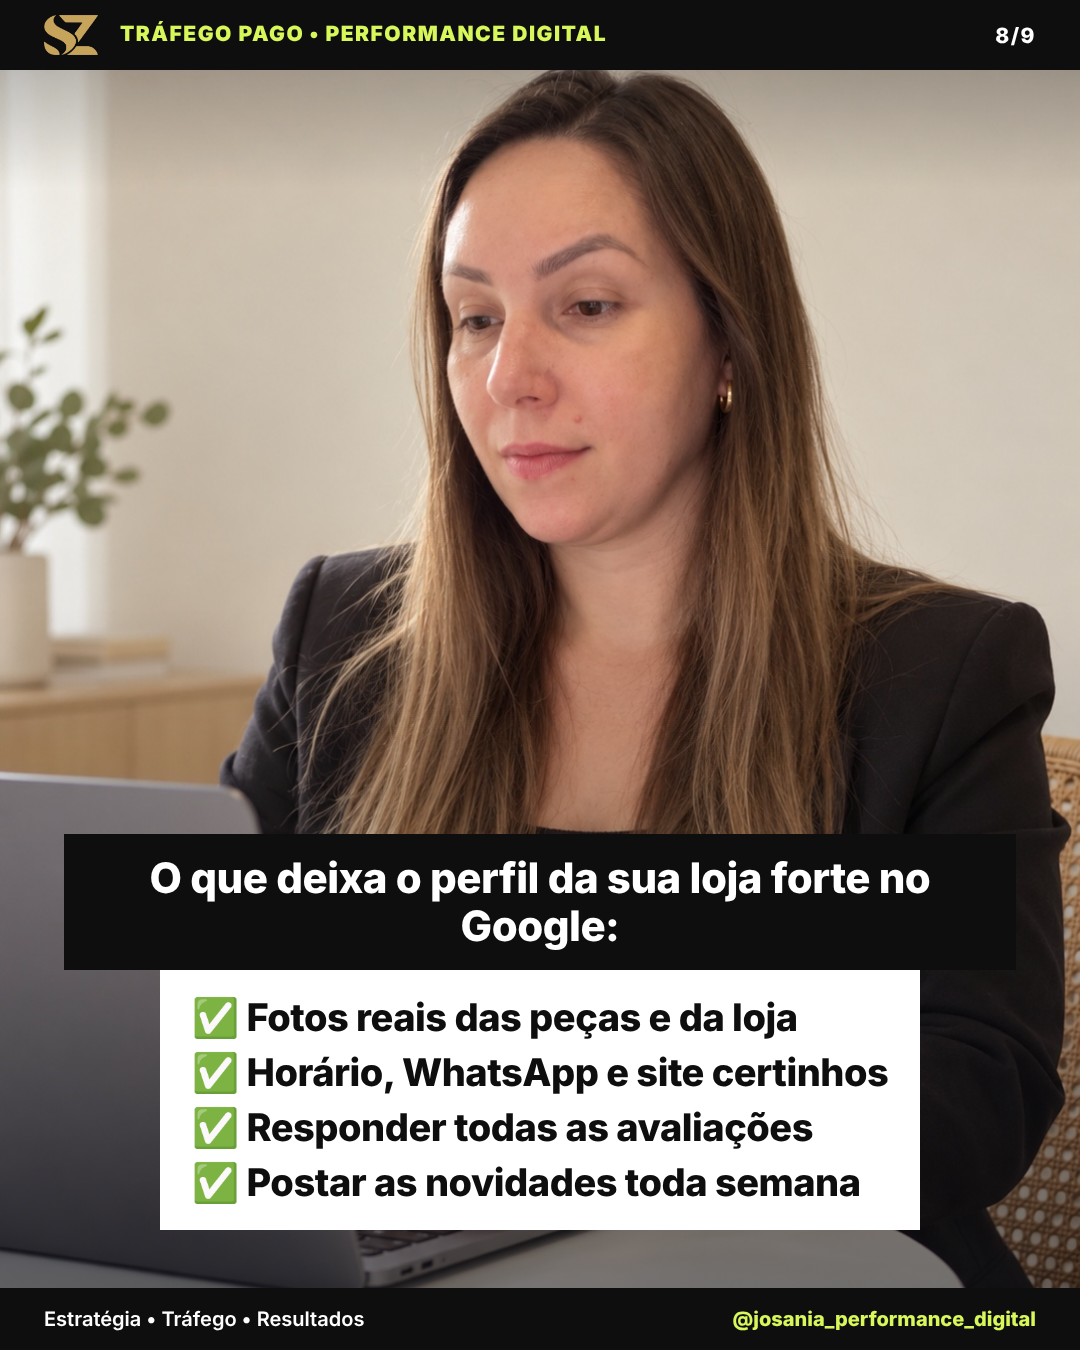
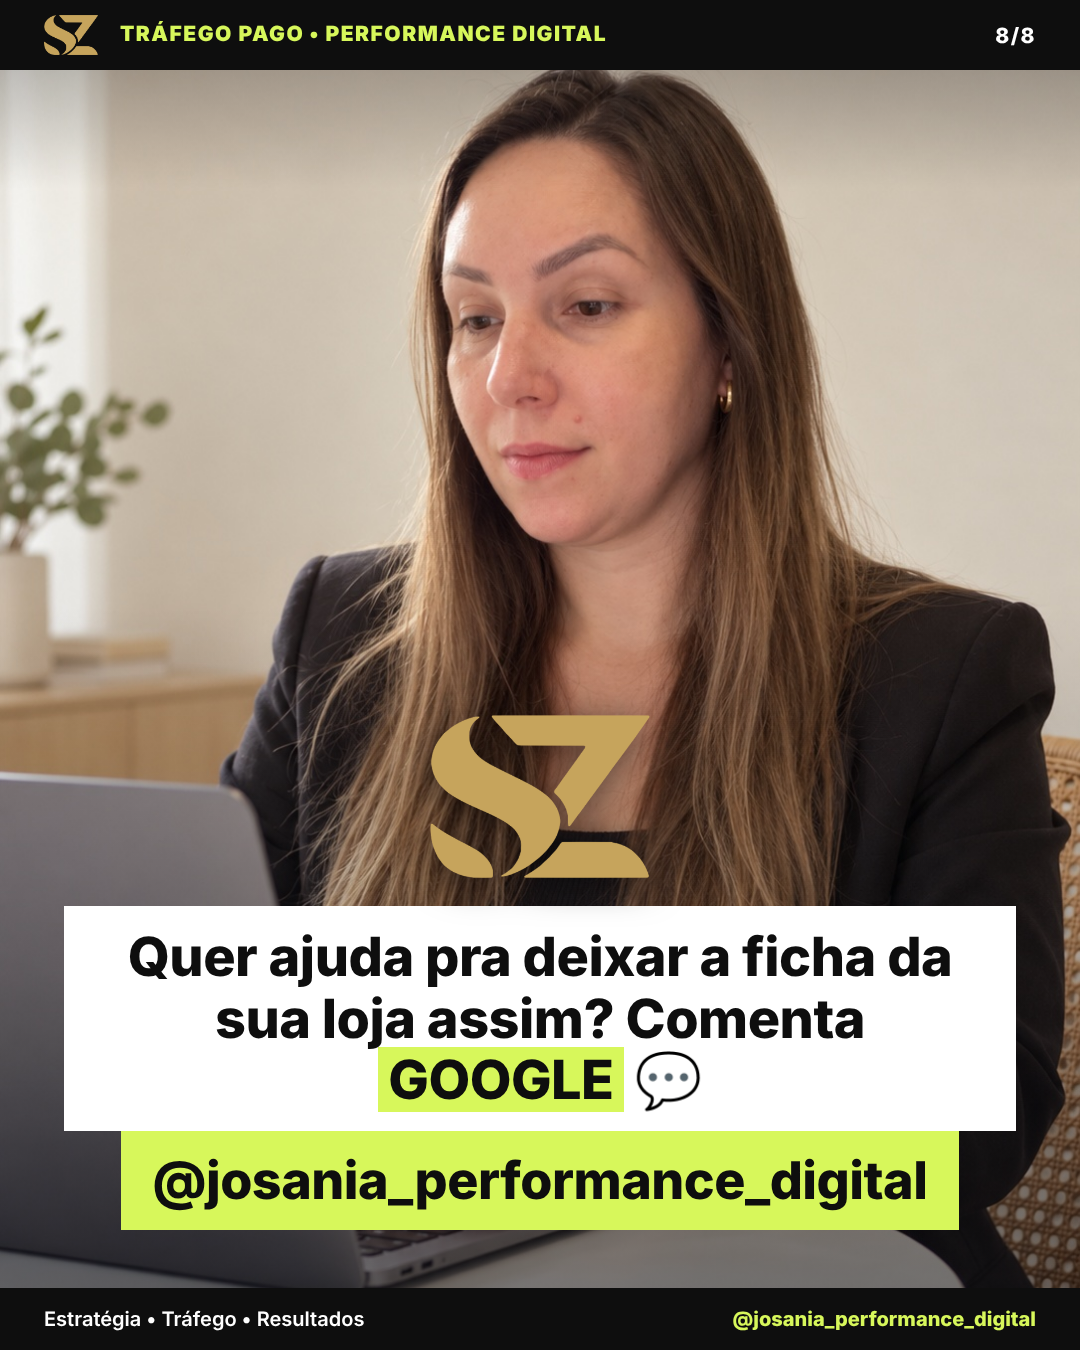
Simplifica a linguagem do carrossel para lojistas (8 slides)
Claude-Session: https://claude.ai/code/session_01Cdq3fSAdowyFYcw5UgbxcJ

Changed region(s): [[0.0611, 0.4978, 0.9472, 0.9333]]

diff --git a/conteudos/carrossel-perfil-google/gerar.py b/conteudos/carrossel-perfil-google/gerar.py
@@ -1,4 +1,4 @@
-"""Gera o carrossel "Perfil no Google para Criadores" (9 slides, 1080x1350).
+"""Gera o carrossel "Sua loja no Google" (1080x1350).
 
 Uso:
     python3 gerar.py                                  # identidade Szadura + foto-josania.jpg
@@ -73,11 +73,11 @@ body{{width:1080px;height:1350px;overflow:hidden;font-family:Inter,sans-serif}}
 """
 
 
-def pagina(m, n, conteudo, sem_foto):
+def pagina(m, n, total, conteudo, sem_foto):
     ph = '<div class="ph">SUA FOTO AQUI</div>' if sem_foto else ""
     topo = f'<img src="{m["sz_uri"]}"><b>{m["assinatura"]}</b>'
     return (
-        f'<div class="slide">{ph}<div class="topo"><span>{topo}</span><span>{n}/9</span></div>'
+        f'<div class="slide">{ph}<div class="topo"><span>{topo}</span><span>{n}/{total}</span></div>'
         f'<div class="stack">{conteudo}</div>'
         f'<div class="rodape"><span>{m["slogan"]}</span><b>{m["perfil"]}</b></div></div>'
     )
@@ -117,7 +117,7 @@ def painel_loja(m, forte):
         nota, aval, info = "3,8", "(6 avaliações)", "Horário não informado"
         botoes = ["Rotas", "Salvar"]
         fotos = '<div class="thumb" style="background:#e9e9e9;width:470px;height:120px"><span class="peca" style="top:22px;font-size:52px">🏬</span></div>'
-        extra = '<div class="desc" style="margin-top:12px;color:#b3261e">Sem site · Sem telefone · Sem fotos recentes</div>'
+        extra = '<div class="desc" style="margin-top:12px;color:#b3261e;font-size:18px">Sem WhatsApp · Sem horário · Sem fotos</div>'
         estrelas = "★★★★☆"
     chips = "".join(f'<span class="chip">{b}</span>' for b in botoes)
     corpo = f"""<div class="res"><div style="font:800 30px Inter;color:#202124">{LOJA}</div>
@@ -129,23 +129,18 @@ def painel_loja(m, forte):
 def slides(m):
     nome, perfil = CRIADORA["nome"], CRIADORA["perfil"]
     perfil_pg = f"""<div class="mock" style="width:760px">
-<div style="background:{m['cor_fundo']};color:#fff;padding:28px 30px"><div style="font:800 40px Inter">{nome}</div><div style="font-size:18px;opacity:.8">{perfil} · Perfil na Pesquisa</div></div>
-<div style="padding:20px 30px"><span class="chip">+ Seguir no Google</span><span class="chip">Instagram</span><span class="chip">TikTok</span><span class="chip">YouTube</span>
+<div style="background:{m['cor_fundo']};color:#fff;padding:28px 30px"><div style="font:800 40px Inter">{nome}</div><div style="font-size:18px;opacity:.8">{perfil} · Página no Google</div></div>
+<div style="padding:20px 30px"><span class="chip">Instagram</span><span class="chip">TikTok</span><span class="chip">YouTube</span>
 <div class="src" style="margin:18px 0 6px;font-weight:700">Posts mais recentes</div><div class="posts">{miniaturas()}</div></div></div>"""
-    link = f"""<div class="mock" style="width:760px"><div style="background:{m['cor_fundo']};color:{m['cor_primaria']};padding:40px 30px;text-align:center;font:800 36px Inter">Perfil na Pesquisa<br>Google para Criadores</div>
-<div style="padding:22px 30px;background:#eef3ff"><div style="font:700 22px Inter">Requisitos oficiais</div>
-<div class="desc" style="font-size:19px;margin-top:6px">✔ 10 mil seguidores em UMA rede: Instagram, TikTok, YouTube ou X<br>✔ Ter 18 anos ou mais<br>✔ Seguir as políticas de conteúdo do Google</div>
-<div class="src" style="margin-top:10px;font-size:18px">🔗 profile.google.com/claim</div></div></div>"""
     return [
-        f'<img class="selo canto" src="{m["sz_uri"]}"><div class="box ouro sm">🚨 Alerta de ATUALIZAÇÃO</div><div class="box escuro big">O Google lançou o <span class="hl">Perfil na Pesquisa</span> no Brasil!</div>',
-        '<div class="box branco">Criadores com <span class="hla">+10 mil seguidores</span> agora podem ter um perfil oficial no Google</div><div class="gap"></div><div class="box escuro sm">Mas e se você tem uma LOJA? Calma que eu te explico 👀</div>',
-        f'<div class="box escuro sm">Para criadores, aparece um painel com <span class="hl">todas as redes e os posts recentes</span> 👇</div>{perfil_pg}{NOTA}',
-        f'<div class="box escuro sm">Para criar, acesse o site e faça login com a rede que tem os 10 mil seguidores:</div><div class="box lima" style="font-size:40px">profile.google.com/claim</div>{link}',
-        '<div class="box ouro sm">⚠ Atenção, lojista!</div><div class="box escuro">Para empresas, o Google continua mostrando o <span class="hl">Perfil da Empresa</span></div><div class="gap"></div><div class="box branco sm">Ou seja: quem aparece pela sua loja é o <span class="hla">Google Meu Negócio</span> 📍</div>',
-        f'<div class="box escuro sm">E é assim que muita loja aparece quando a cliente pesquisa o nome 👇</div>{painel_loja(m, False)}{NOTA}',
-        f'<div class="box escuro sm">E assim aparece uma loja com o <span class="hl">Google Meu Negócio caprichado</span> 👇</div>{painel_loja(m, True)}{NOTA}',
-        '<div class="box escuro sm">O que deixa o perfil da sua loja forte no Google:</div><div class="box branco sm" style="text-align:left;font-size:38px;line-height:1.45">✅ Fotos reais das peças e da loja<br>✅ Horário, WhatsApp e site certinhos<br>✅ Responder todas as avaliações<br>✅ Postar as novidades toda semana</div>',
-        f'<img class="selo" src="{m["sz_uri"]}"><div class="box branco">Quer o Google Meu Negócio da sua loja assim? Comenta <span class="hla">GOOGLE</span> ou chama no direct</div><div class="box lima" style="font-size:52px">{m["perfil"]}</div>',
+        f'<img class="selo canto" src="{m["sz_uri"]}"><div class="box ouro sm">🚨 Novidade no Google!</div><div class="box escuro big">Quem tem <span class="hl">muitos seguidores</span> agora ganha uma página no Google</div>',
+        '<div class="box branco big">Mas e quem tem <span class="hla">LOJA?</span> 🤔</div><div class="gap"></div><div class="box escuro sm">Vou te mostrar de um jeito simples 👇</div>',
+        f'<div class="box escuro sm">Quem cria conteúdo (+10 mil seguidores) aparece assim 👇</div>{perfil_pg}{NOTA}',
+        '<div class="box ouro sm">E a sua loja? 🛍</div><div class="box escuro">Ela aparece pelo <span class="hl">Google Meu Negócio</span> 📍</div><div class="gap"></div><div class="box branco sm">É aquela ficha com fotos, endereço, horário e avaliações</div>',
+        f'<div class="box escuro sm">Ficha abandonada 😬<br><span class="hl">a cliente desiste e vai na concorrente</span></div>{painel_loja(m, False)}{NOTA}',
+        f'<div class="box escuro sm">Ficha caprichada 🤩<br><span class="hl">a cliente confia e já chama no WhatsApp</span></div>{painel_loja(m, True)}{NOTA}',
+        '<div class="box escuro sm">Como deixar a sua assim:</div><div class="box branco sm" style="text-align:left;font-size:40px;line-height:1.5">✅ Fotos bonitas das roupas<br>✅ Horário e WhatsApp certos<br>✅ Pedir avaliação pras clientes<br>✅ Postar novidades toda semana</div>',
+        f'<img class="selo" src="{m["sz_uri"]}"><div class="box branco">Quer ajuda pra deixar a ficha da sua loja assim? Comenta <span class="hla">GOOGLE</span> 💬</div><div class="box lima" style="font-size:52px">{m["perfil"]}</div>',
     ]
 
 
@@ -163,15 +158,16 @@ def main():
     saida.mkdir(parents=True, exist_ok=True)
     estilo = css(m, foto)
     arquivos = []
-    for i, s in enumerate(slides(m), 1):
+    lista = slides(m)
+    for i, s in enumerate(lista, 1):
         html = saida / f"slide-{i:02d}.html"
-        html.write_text(f"<html><head><meta charset='utf-8'><style>{estilo}</style></head><body>{pagina(m, i, s, not foto)}</body></html>")
+        html.write_text(f"<html><head><meta charset='utf-8'><style>{estilo}</style></head><body>{pagina(m, i, len(lista), s, not foto)}</body></html>")
         arquivos.append(str(html.resolve()))
     # O Playwright deste ambiente é o do Node, então a captura roda por ele
     subprocess.run(["node", str(AQUI / "capturar.js"), *arquivos], check=True)
     for f in arquivos:
         Path(f).unlink()
-    print(f"9 slides em {saida}")
+    print(f"{len(lista)} slides em {saida}")
 
 
 if __name__ == "__main__":
